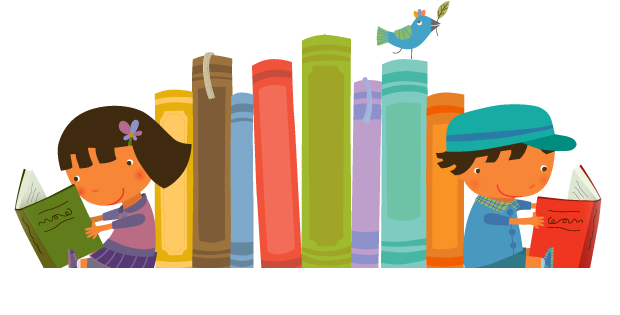
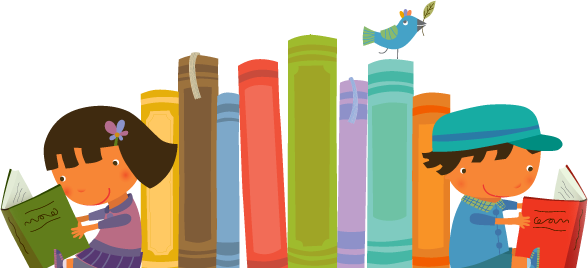
Working on UI

diff --git a/mpp-project/src/ui/resource/css/library.css b/mpp-project/src/ui/resource/css/library.css
@@ -11,6 +11,10 @@
 	-fx-text-fill: #ffffff;
 }
 
+#auth-text {
+	-fx-text-fill: #ffffff;
+}
+
 .label {
    -fx-text-fill: #000000;
 }

diff --git a/mpp-project/src/business/SystemController.java b/mpp-project/src/business/SystemController.java
@@ -12,10 +12,28 @@ import dataaccess.DataAccessFacade;
 import dataaccess.User;
 import ui.CheckOverdueBookWindow.OverdueDateRecord;
 import ui.CheckoutRecordWindow;
+import ui.Start;
 import ui.CheckoutRecordWindow.CheckoutRecordAndLibraryMember;
 
 public class SystemController implements ControllerInterface {
 	public static Auth currentAuth = Auth.UNAUTHENTICATED;
+
+	public static String getCurrentAuthString() {
+		String auth = "";
+		switch (currentAuth) {
+		case ADMIN:
+			auth = "Administrator";
+			break;
+		case LIBRARIAN:
+			auth = "Librarian";
+			break;
+		case BOTH:
+			auth = "God";
+		default:
+			break;
+		}
+		return auth;
+	}
 
 	public void login(String id, String password) throws LoginException {
 		DataAccess da = new DataAccessFacade();
@@ -177,7 +195,7 @@ public class SystemController implements ControllerInterface {
 				Book book = bookCopy.getBook();
 				LocalDate dueDate = checkoutRecordEntry.getDueDate();
 				LocalDate yesterdayDate = LocalDate.now().minusDays(1);
-				
+
 				if (book.getIsbn().equals(isbn) && dueDate.compareTo(yesterdayDate) <= 0) {
 					int copyNum = bookCopy.getCopyNum();
 					String title = book.getTitle();
@@ -185,7 +203,7 @@ public class SystemController implements ControllerInterface {
 					String firstName = libraryMember.getFirstName();
 					String lastName = libraryMember.getLastName();
 					LocalDate checkoutDate = checkoutRecordEntry.getCheckoutDate();
-					
+
 					listOverdueDateRecord.add(new OverdueDateRecord(isbn, title, copyNum, memberId, firstName, lastName,
 							checkoutDate, dueDate));
 				}

diff --git a/mpp-project/src/ui/Start.java b/mpp-project/src/ui/Start.java
@@ -22,6 +22,7 @@ import javafx.scene.layout.VBox;
 import javafx.scene.paint.Color;
 import javafx.scene.text.Font;
 import javafx.scene.text.FontWeight;
+import javafx.scene.text.Text;
 import javafx.stage.Stage;
 
 public class Start extends Application {
@@ -114,7 +115,7 @@ public class Start extends Application {
 		topContainer.setId("top-container");
 		mainMenu = new MenuBar();
 		VBox imageHolder = new VBox();
-		Image image = new Image("ui/resource/image/books.png", 600, 400, false, false);
+		Image image = new Image("ui/resource/image/books.png", 550, 300, false, false);
 
 		ImageView iv = new ImageView();
 		iv.setImage(image);
@@ -126,7 +127,13 @@ public class Start extends Application {
 		splashLabel.setFont(Font.font("Arial", FontWeight.BOLD, 30));
 		splashBox.getChildren().add(splashLabel);
 		splashBox.setAlignment(Pos.CENTER);
-
+		
+		HBox splashBox2 = new HBox();
+		Label splashLabel2 = new Label("Your are login as: " + SystemController.getCurrentAuthString());
+		splashLabel2.setId("auth-text");
+		splashBox2.getChildren().add(splashLabel2);
+		splashBox2.setAlignment(Pos.CENTER);
+		
 		btnLogin = new Button("Login");
 		btnLogin.setId("rich-blue");
 		btnLogin.setOnAction((ActionEvent e) -> {
@@ -165,6 +172,7 @@ public class Start extends Application {
 		topContainer.getChildren().add(hbox);
 		topContainer.getChildren().add(splashBox);
 		topContainer.getChildren().add(imageHolder);
+		topContainer.getChildren().add(splashBox2);
 
 		bookMenu = new Menu("Menu");
 		memberMenu = new Menu("Member");

diff --git a/mpp-project/src/ui/LoginWindow.java b/mpp-project/src/ui/LoginWindow.java
@@ -52,7 +52,6 @@ public class LoginWindow extends Stage implements LibWindow {
 		grid.setPadding(new Insets(25, 25, 25, 25));
 
 		Text scenetitle = new Text("Library System");
-		// setting id for CSS styling
 		scenetitle.setId("welcome-text");
 		grid.add(scenetitle, 0, 0, 2, 1);
 
